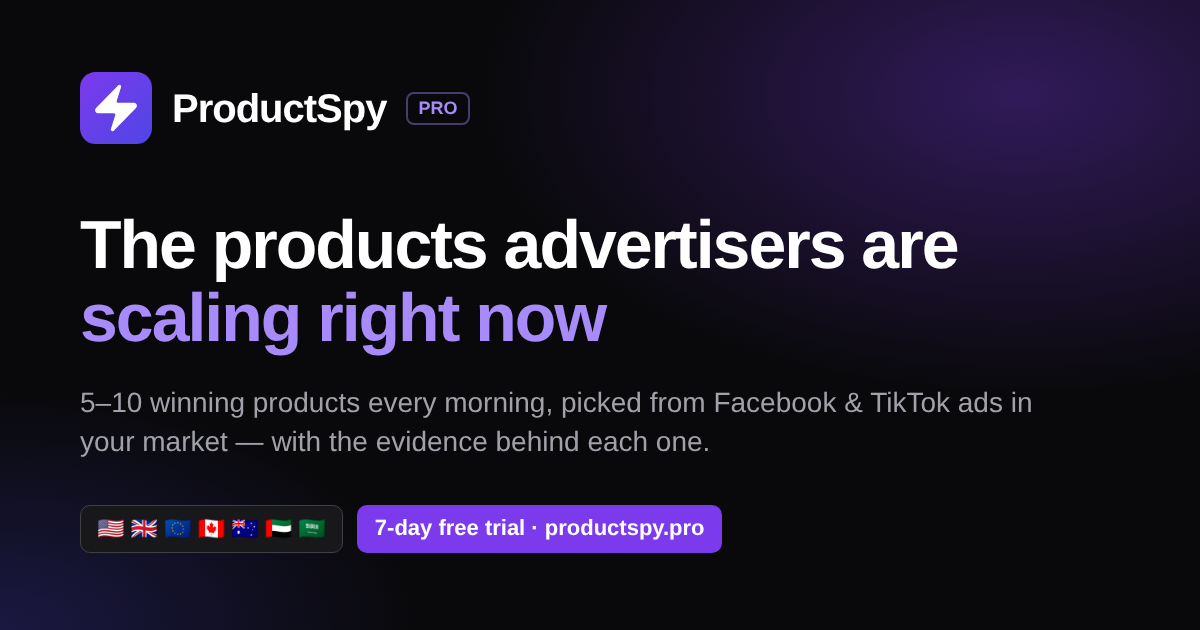
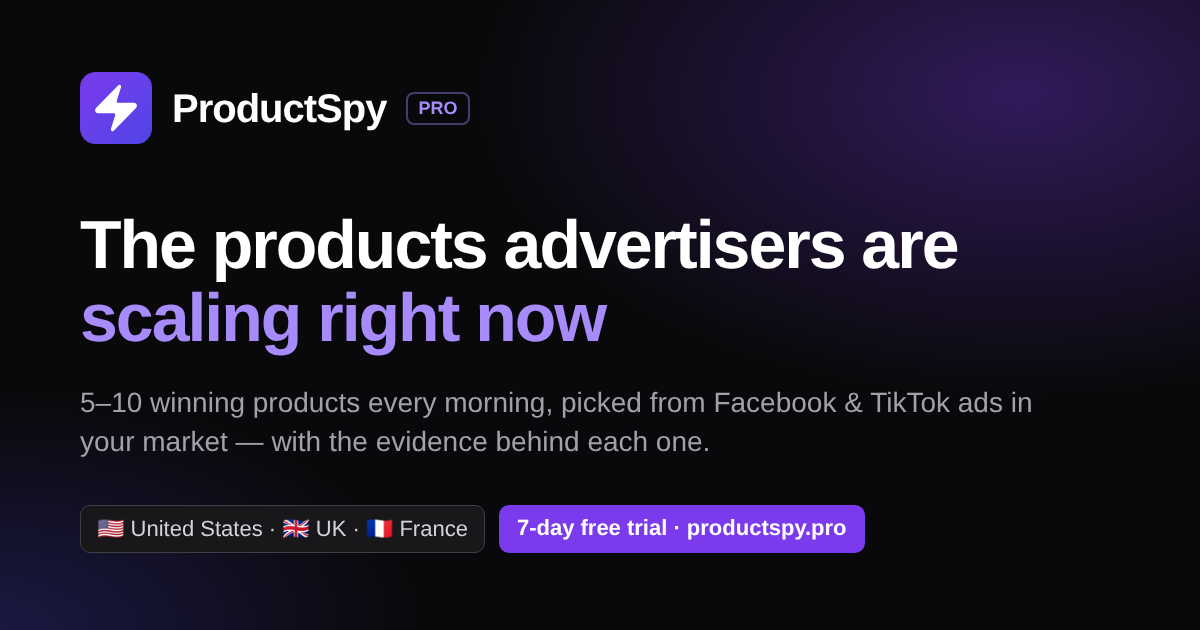
Launch with US, UK and France only

Changed region(s): [[0.0925, 0.7841, 0.74, 0.9048]]

diff --git a/src/app/page.tsx b/src/app/page.tsx
@@ -34,10 +34,9 @@ const SCORE_PARTS = [
   { label: "Freshness", pts: 10, desc: "New, accelerating, and with a wow effect or a real problem solved." },
 ];
 
-const MARKETS = [
-  "🇺🇸 United States", "🇬🇧 United Kingdom", "🇪🇺 Europe", "🇫🇷 France", "🇩🇪 Germany",
-  "🇨🇦 Canada", "🇦🇺 Australia", "🇦🇪 UAE / Dubai", "🇸🇦 Saudi Arabia",
-];
+// Live markets — keep in sync with WINNERS_MARKETS on the backend.
+const MARKETS = ["🇺🇸 United States", "🇬🇧 United Kingdom", "🇫🇷 France"];
+const COMING_SOON = ["🇩🇪 Germany", "🇪🇺 Europe", "🇨🇦 Canada", "🇦🇺 Australia", "🇦🇪 UAE / Dubai", "🇸🇦 Saudi Arabia"];
 
 const PLANS = [
   {
@@ -60,7 +59,7 @@ const PLANS = [
     name: "Pro",
     price: "$79",
     desc: "For serious dropshippers",
-    features: ["All 5–10 Daily Winners", "3 markets", "Ad & video evidence + suppliers", "30-day archive + CSV export", "Priority support"],
+    features: ["All 5–10 Daily Winners", "All 3 markets", "Ad & video evidence + suppliers", "30-day archive + CSV export", "Priority support"],
     cta: "Start 7-day free trial",
     highlight: true,
   },
@@ -68,7 +67,7 @@ const PLANS = [
     name: "Agency",
     price: "$199",
     desc: "For teams & agencies",
-    features: ["Everything in Pro", "Every market", "90-day archive", "Dedicated support"],
+    features: ["Everything in Pro", "Every market, incl. new ones", "90-day archive", "Dedicated support"],
     cta: "Contact us",
     highlight: false,
   },
@@ -172,7 +171,7 @@ export default function LandingPage() {
       {/* Facts bar */}
       <section className="border-y border-zinc-800/60 py-6 bg-zinc-900/30">
         <div className="max-w-5xl mx-auto px-4 sm:px-8 flex flex-wrap items-center justify-center gap-x-10 gap-y-3 text-zinc-500 text-xs sm:text-sm font-medium">
-          {["Facebook Ad Library · TikTok", "New picks every morning", "9 markets", "Exact sourcing quotes on request"].map((s) => (
+          {["Facebook Ad Library · TikTok", "New picks every morning", "US · UK · France", "Exact sourcing quotes on request"].map((s) => (
             <span key={s} className="flex items-center gap-2">
               <span className="w-1.5 h-1.5 rounded-full bg-violet-500 shrink-0" />
               {s}
@@ -233,12 +232,15 @@ export default function LandingPage() {
       {/* Markets */}
       <section className="max-w-5xl mx-auto px-4 sm:px-8 py-16 sm:py-20 text-center">
         <h2 className="text-2xl sm:text-3xl font-bold mb-3 flex items-center justify-center gap-2"><Globe2 size={24} className="text-violet-400" /> Picked for your market</h2>
-        <p className="text-zinc-500 text-sm mb-8">What wins in Dubai isn&apos;t what wins in Texas. Each market gets its own scan and its own list.</p>
+        <p className="text-zinc-500 text-sm mb-8">What wins in Paris isn&apos;t what wins in Texas. Each market gets its own scan and its own list.</p>
         <div className="flex flex-wrap justify-center gap-2">
           {MARKETS.map((m) => (
             <span key={m} className="bg-zinc-900 border border-zinc-800 rounded-lg px-3 py-2 text-sm text-zinc-300">{m}</span>
           ))}
         </div>
+        <p className="text-zinc-600 text-xs mt-6">
+          Coming next: {COMING_SOON.join(" · ")}
+        </p>
       </section>
 
       {/* Reviews (real ones only — see src/content/social-proof.ts) */}

diff --git a/backend/tests/test_winners_api.py b/backend/tests/test_winners_api.py
@@ -100,19 +100,21 @@ def test_pro_sees_all_ten(make_client):
 def test_first_market_is_followed_automatically_then_locked(make_client):
     factory, state = make_client
     with factory("free") as c:
-        assert c.get("/api/v1/winners?market=AE").status_code == 200
-        assert state["followed"] == ["AE"]
+        assert c.get("/api/v1/winners?market=FR").status_code == 200
+        assert state["followed"] == ["FR"]
         r = c.get("/api/v1/winners?market=US")
     assert r.status_code == 403
     assert r.json()["detail"]["error"] == "market_locked"
 
 
-def test_preferences_respect_plan_limit(make_client):
+def test_preferences_respect_plan_limit(make_client, monkeypatch):
+    from app import config
+    monkeypatch.setattr(config, "WINNERS_MARKETS", "US,UK,FR,AU")
     factory, state = make_client
     with factory("pro") as c:
-        assert c.post("/api/v1/winners/preferences", json={"markets": ["us", "ae", "UK"]}).status_code == 200
-        assert state["followed"] == ["US", "AE", "UK"]
-        r = c.post("/api/v1/winners/preferences", json={"markets": ["US", "AE", "UK", "AU"]})
+        assert c.post("/api/v1/winners/preferences", json={"markets": ["us", "fr", "UK"]}).status_code == 200
+        assert state["followed"] == ["US", "FR", "UK"]
+        r = c.post("/api/v1/winners/preferences", json={"markets": ["US", "FR", "UK", "AU"]})
         assert r.status_code == 403
         assert c.post("/api/v1/winners/preferences", json={"markets": ["XX"]}).status_code == 400
 
@@ -183,8 +185,18 @@ def test_evidence_hidden_on_free(make_client, monkeypatch):
 
 def test_markets_endpoint(make_client):
     factory, _ = make_client
-    with factory("pro", followed=["AE"]) as c:
+    with factory("pro", followed=["AE", "FR"]) as c:
         body = c.get("/api/v1/winners/markets").json()
-    assert {m["code"] for m in body["markets"]} >= {"US", "UK", "EU", "AU", "AE"}
-    assert body["following"] == ["AE"]
+    # only launched markets (WINNERS_MARKETS) are offered; a followed market
+    # that isn't launched is ignored
+    assert [m["code"] for m in body["markets"]] == ["US", "UK", "FR"]
+    assert body["following"] == ["FR"]
     assert body["entitlements"]["markets"] == 3
+
+
+def test_unlaunched_market_is_refused(make_client):
+    factory, state = make_client
+    with factory("pro") as c:
+        r = c.get("/api/v1/winners?market=AE")
+        assert r.status_code == 400 and "isn't available yet" in r.json()["detail"]
+        assert c.post("/api/v1/winners/preferences", json={"markets": ["AE"]}).status_code == 400

diff --git a/backend/app/routers/winners.py b/backend/app/routers/winners.py
@@ -46,13 +46,31 @@ def _locked(error: str, message: str) -> HTTPException:
     )
 
 
+def _live() -> list[str]:
+    """Markets that are scanned and offered (WINNERS_MARKETS), in that order."""
+    live = [c for c in config.winners_markets() if c in MARKETS]
+    return live or [DEFAULT_MARKET]
+
+
+def _check_live(code: str) -> None:
+    if code not in MARKETS:
+        raise HTTPException(status.HTTP_400_BAD_REQUEST, detail=f"Unknown market '{code}'")
+    if code not in _live():
+        raise HTTPException(status.HTTP_400_BAD_REQUEST,
+                            detail=f"{MARKETS[code].name} isn't available yet")
+
+
+async def _followed(user_id: str) -> list[str]:
+    live = _live()
+    return [c for c in await store.followed_markets(user_id) if c in live]
+
+
 async def _resolve_market(user: CurrentUser, market: str | None) -> tuple[str, dict[str, Any]]:
     """Validate the market and enforce how many markets the plan includes."""
     _, ent = await _entitlements(user)
-    followed = await store.followed_markets(user.id)
-    code = (market or (followed[0] if followed else DEFAULT_MARKET)).upper()
-    if code not in MARKETS:
-        raise HTTPException(status.HTTP_400_BAD_REQUEST, detail=f"Unknown market '{code}'")
+    followed = await _followed(user.id)
+    code = (market or (followed[0] if followed else _live()[0])).upper()
+    _check_live(code)
     allowed = followed[: ent["markets"]]
     if code in allowed:
         return code, ent
@@ -119,10 +137,10 @@ def _today() -> date:
 @router.get("/markets")
 async def list_markets(user: CurrentUser = Depends(current_user)) -> dict[str, Any]:
     _, ent = await _entitlements(user)
-    followed = (await store.followed_markets(user.id))[: ent["markets"]]
+    followed = (await _followed(user.id))[: ent["markets"]]
     return {
-        "markets": [market_public(m) for m in MARKETS.values()],
-        "following": followed or [DEFAULT_MARKET],
+        "markets": [market_public(MARKETS[c]) for c in _live()],
+        "following": followed or [_live()[0]],
         "entitlements": ent,
         "plans": {k: {"plan": k, **v} for k, v in config.WINNERS_PLANS.items()},
     }
@@ -138,8 +156,7 @@ async def save_preferences(body: PreferencesIn, user: CurrentUser = Depends(curr
     codes: list[str] = []
     for c in body.markets:
         c = c.upper()
-        if c not in MARKETS:
-            raise HTTPException(status.HTTP_400_BAD_REQUEST, detail=f"Unknown market '{c}'")
+        _check_live(c)
         if c not in codes:
             codes.append(c)
     if not codes:

diff --git a/backend/app/config.py b/backend/app/config.py
@@ -135,7 +135,8 @@ PAID_PLANS = ("starter", "pro", "agency")
 # See backend/README.md#daily-winners.
 
 # Markets the daily worker scans (codes from app/winners/markets.py).
-WINNERS_MARKETS = os.environ.get("WINNERS_MARKETS", "US,UK,EU,AU,AE,CA")
+# Markets that are scanned daily AND offered to users (launch: US, UK, France).
+WINNERS_MARKETS = os.environ.get("WINNERS_MARKETS", "US,UK,FR")
 
 # Claude names each ad's product, dedupes, and flags IP/restricted risk.
 # Without a key a URL/title heuristic stands in (fewer products recognised).
